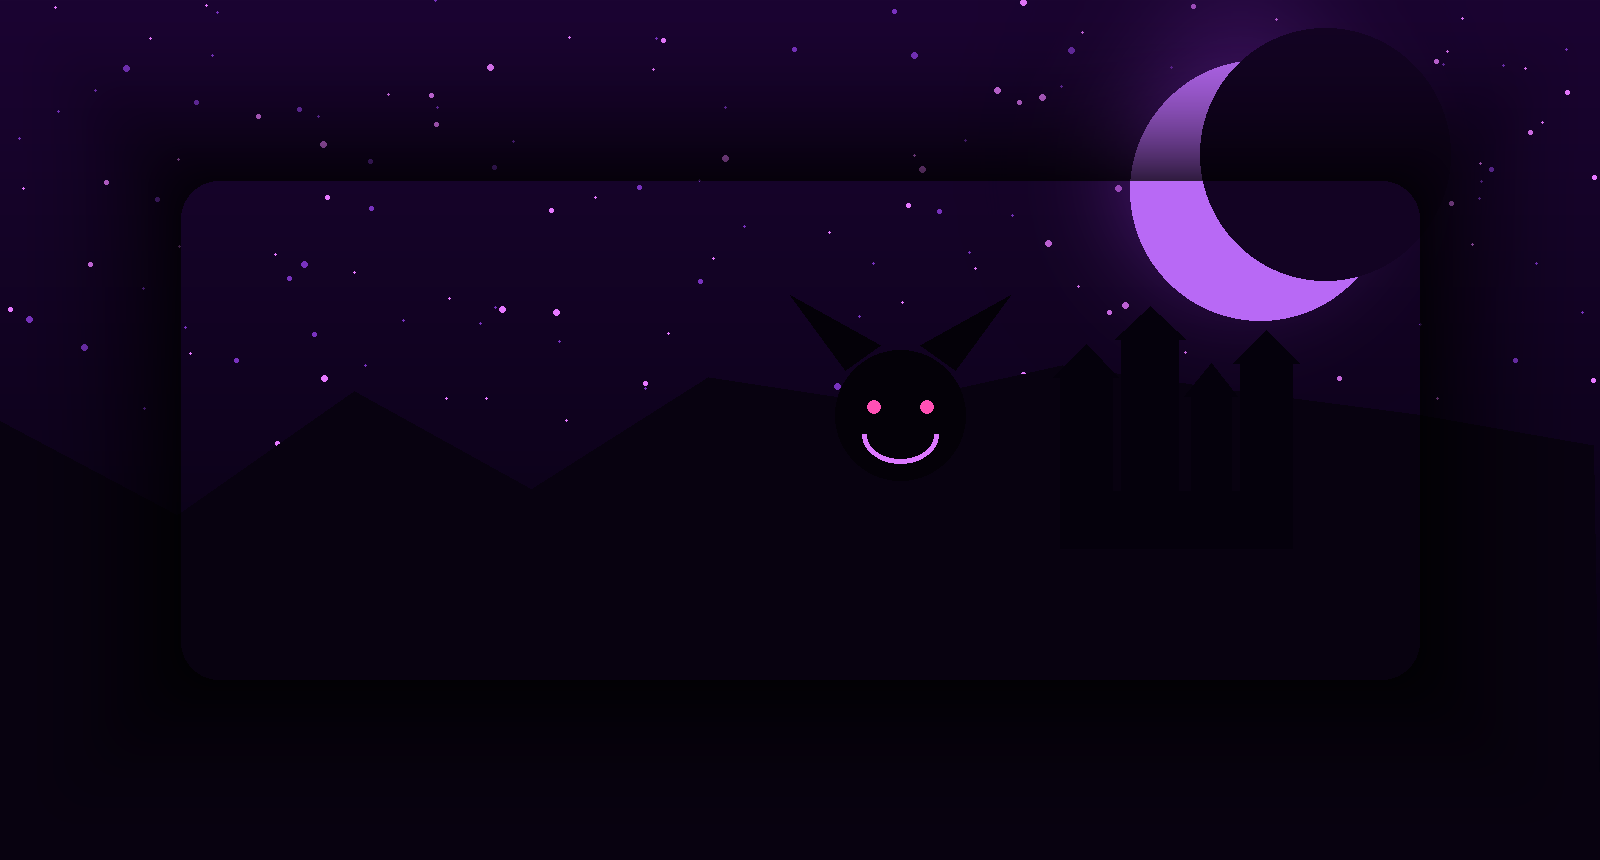
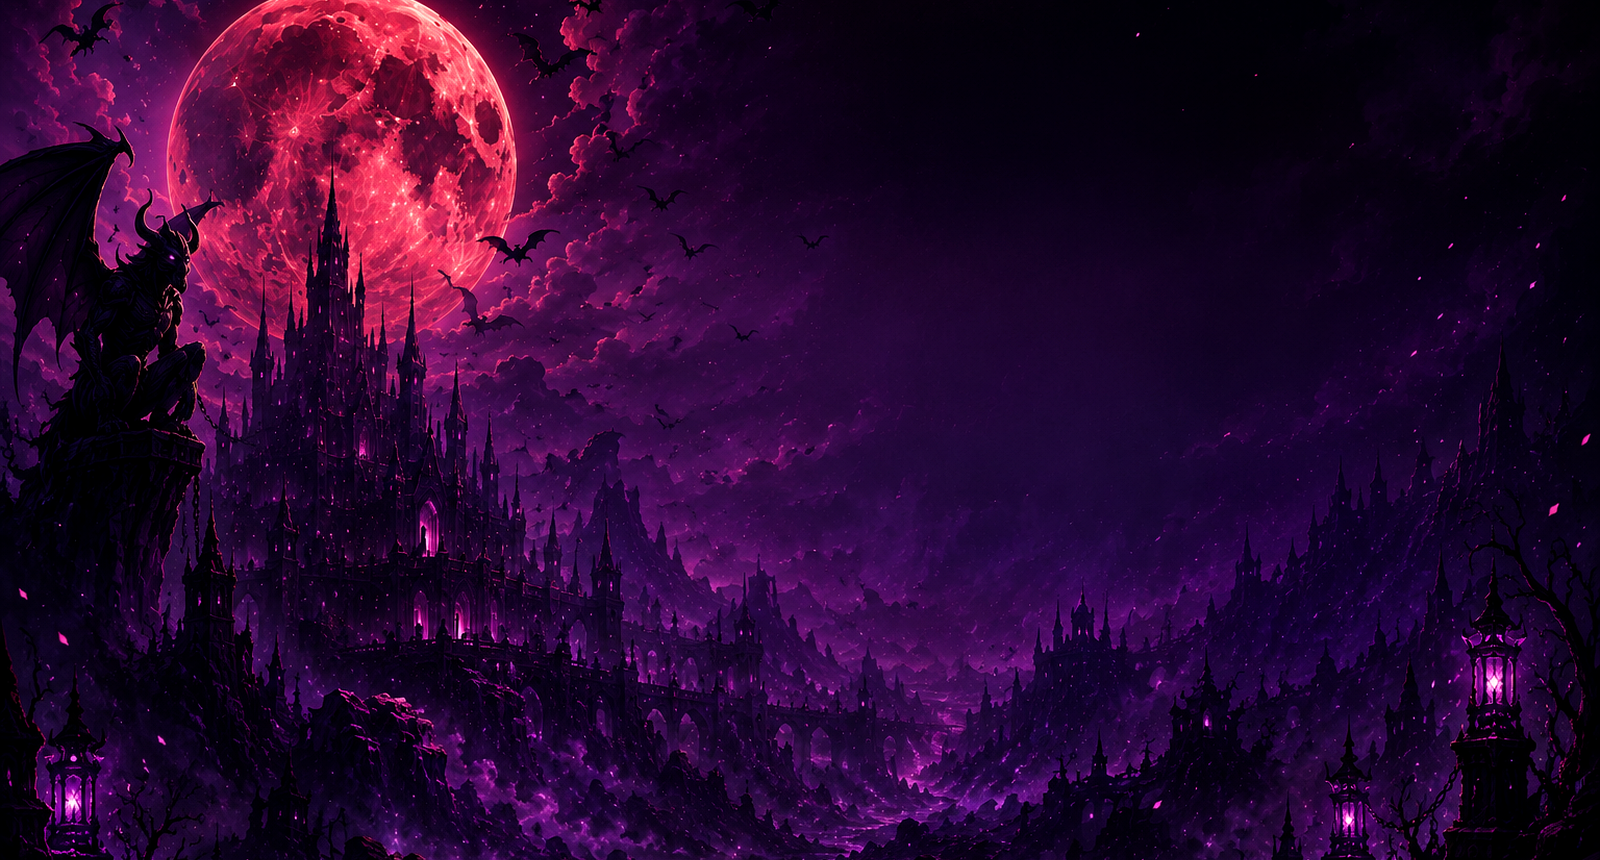
add high quality devi profile background

diff --git a/cogs/member_onboarding.py b/cogs/member_onboarding.py
@@ -735,7 +735,8 @@ async def build_profile_card_file(member, p):
         'assets', 'profile', 'backgrounds', f'{theme_key}.png'
     )
     try:
-        background = Image.open(background_path).convert('RGB').resize((width, height), Image.Resampling.LANCZOS)
+        background_src = Image.open(background_path).convert('RGB')
+        background = ImageOps.fit(background_src, (width, height), method=Image.Resampling.LANCZOS, centering=(0.5, 0.48))
         img.paste(background, (0, 0))
     except Exception:
         # アセット破損時もプロフィール生成自体は止めない
@@ -752,8 +753,8 @@ async def build_profile_card_file(member, p):
     content_box = (48, 370, width-48, 720)
     footer_box = (48, 735, width-48, 812)
     od.rounded_rectangle(header_box, radius=26, fill=(*panel_alt, 176), outline=(*line, 220), width=2)
-    od.rounded_rectangle(content_box, radius=24, fill=(*panel_fill, 226), outline=(*line, 235), width=2)
-    od.rounded_rectangle(footer_box, radius=20, fill=(*panel_fill, 228), outline=(*line, 235), width=2)
+    od.rounded_rectangle(content_box, radius=24, fill=(*panel_fill, 208), outline=(*line, 235), width=2)
+    od.rounded_rectangle(footer_box, radius=20, fill=(*panel_fill, 214), outline=(*line, 235), width=2)
     # ヘッダー左側だけ少し暗くし、右側の背景アートを強く残す
     od.rounded_rectangle((48, 48, 690, 352), radius=26, fill=(0, 4, 12, 78))
     img = Image.alpha_composite(img.convert('RGBA'), overlay).convert('RGB')

diff --git a/assets/profile/README.md b/assets/profile/README.md
@@ -1,0 +1,13 @@
+# Profile background assets
+
+プロフィール画像の背景は `assets/profile/backgrounds/<theme>.png` を読み込みます。
+
+- 推奨サイズ: 1600 x 860 以上
+- 文字・ロゴは背景画像に入れない
+- UIが重なる中央部は暗め、周辺に主役となる景色を置く
+- 画像は縦横比を維持したまま自動クロップされます
+
+## DEVI
+
+`backgrounds/devi.png` は実際にBOTが読み込む加工済み素材です。
+`backgrounds/source/devi_source.png` は元の高解像度素材です。